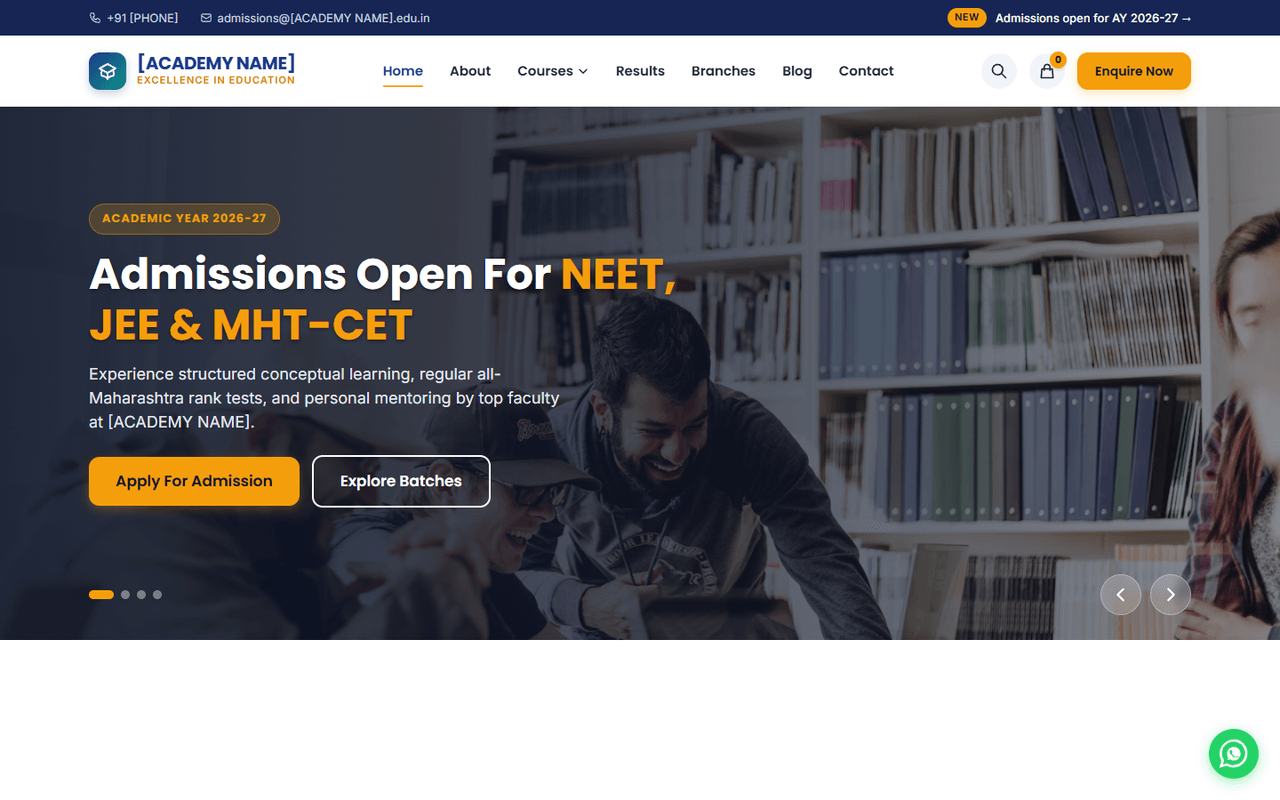
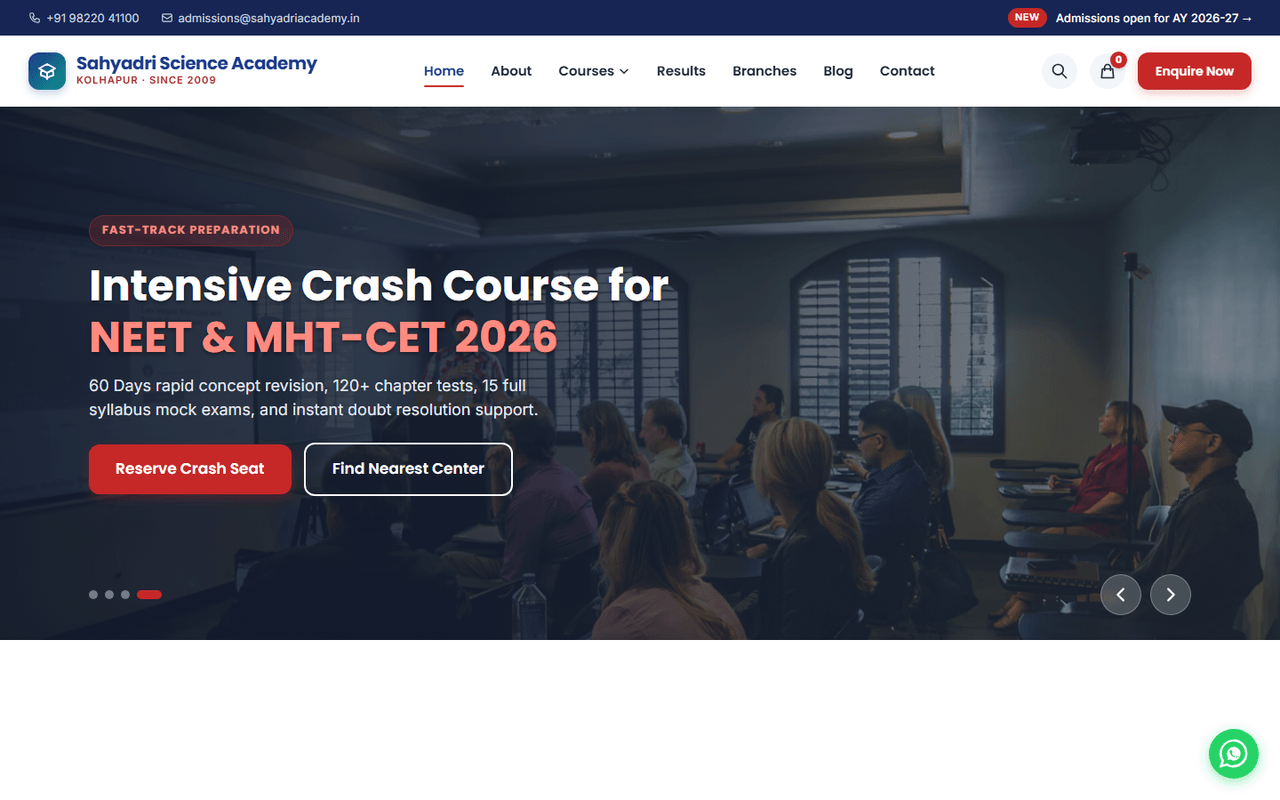
feat: refresh Ambari and coaching thumbnails; rename coaching project to Sahyadri Science Academy

diff --git a/src/data/projects.js b/src/data/projects.js
@@ -64,7 +64,7 @@ export const projects = [
   },
   {
     id: "coaching",
-    name: "Coaching Academy",
+    name: "Sahyadri Science Academy",
     category: "Education",
     tag: "Coaching Classes",
     description: "NEET, JEE & MHT-CET courses, results, faculty and admission enquiry for a coaching institute.",
